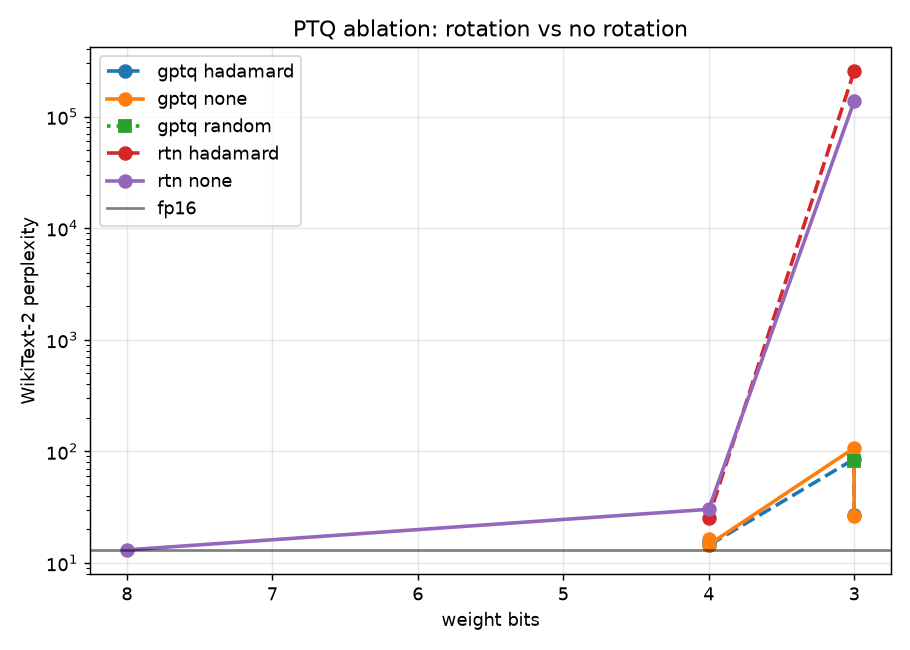
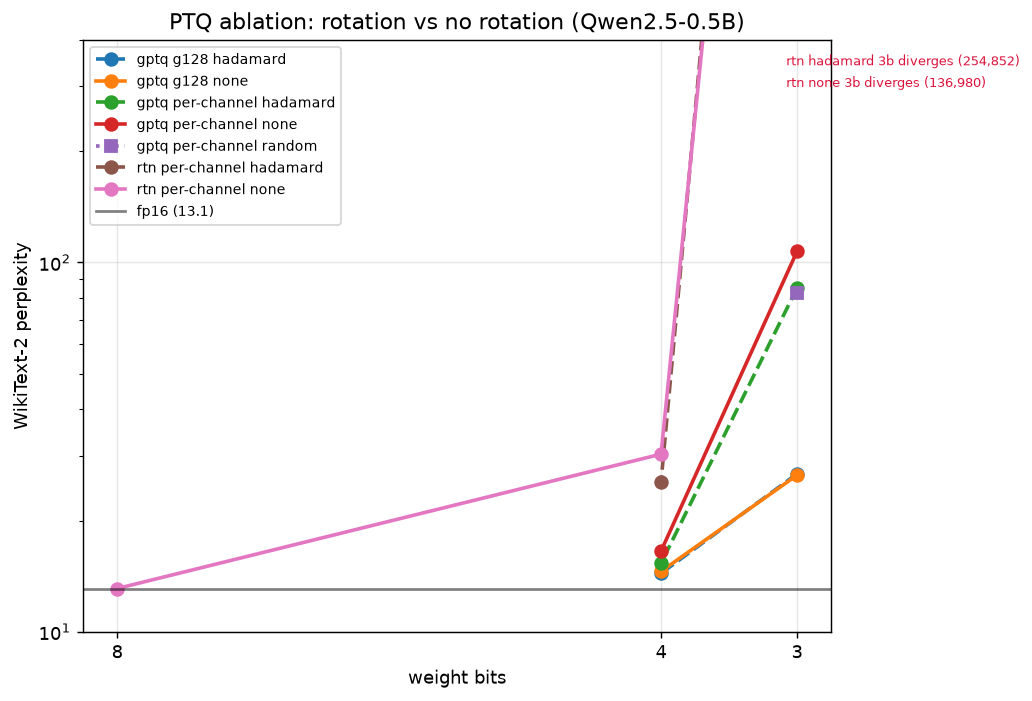
Write up ablation results against real numbers; neutral framing
- README: full 15-config result table + analysis against real RTX 3090 numbers,
  rewritten 'why rotation works' section, standalone-project framing
- plot.py: separate per-channel vs group-128 series, clip diverging RTN-3,
  show off-scale points as annotations
- benchmark.py: neutral module docstring

Claude-Session: https://claude.ai/code/session_01DmFUfMGC2NZD2MHQHobYfJ

diff --git a/scripts/plot.py b/scripts/plot.py
@@ -17,10 +17,12 @@ def main():
     for r in rows:
         if r["method"] == "fp16":
             continue
-        key = f"{r['method']} {r['rotation']}"
+        gs = r.get("groupsize", -1)
+        gtag = "per-channel" if gs in (-1, 0) else f"g{gs}"
+        key = f"{r['method']} {gtag} {r['rotation']}"
         series.setdefault(key, []).append((r["bits"], r["ppl"]))
 
-    plt.figure(figsize=(7, 5))
+    plt.figure(figsize=(8, 5.5))
     for key, pts in sorted(series.items()):
         pts.sort()
         xs, ys = zip(*pts)
@@ -28,18 +30,31 @@ def main():
         plt.plot(xs, ys, style, label=key, linewidth=2, markersize=7)
 
     if fp16:
-        plt.axhline(fp16, color="k", linestyle="-", alpha=0.5, label="fp16")
+        plt.axhline(fp16, color="k", linestyle="-", alpha=0.5, label=f"fp16 ({fp16:.1f})")
+
+    # RTN 3-bit diverges to ~1e5+; clip the view to the region of interest and
+    # flag the off-scale points instead of letting them flatten everything.
+    ymax = 400
+    offscale = [(key, b, p) for key, pts in series.items()
+                for b, p in pts if p > ymax]
+    for i, (key, b, p) in enumerate(sorted(offscale)):
+        plt.annotate(f"{key.replace(' per-channel', '')} {b}b diverges ({p:,.0f})",
+                     xy=(b, ymax), xytext=(-6, -14 - 12 * i),
+                     textcoords="offset points", ha="left",
+                     fontsize=7, color="crimson")
+    plt.ylim(10, ymax)
 
     plt.xlabel("weight bits")
     plt.ylabel("WikiText-2 perplexity")
     plt.yscale("log")
     plt.gca().invert_xaxis()
-    plt.legend()
-    plt.title("PTQ ablation: rotation vs no rotation")
+    plt.gca().set_xticks([8, 4, 3])
+    plt.legend(fontsize=8)
+    plt.title("PTQ ablation: rotation vs no rotation (Qwen2.5-0.5B)")
     plt.grid(alpha=0.3)
     plt.tight_layout()
     out = RESULTS / "ablation.png"
-    plt.savefig(out, dpi=130)
+    plt.savefig(out, dpi=130, bbox_inches="tight")
     print(f"wrote {out}")
 
 

diff --git a/ptq/benchmark.py b/ptq/benchmark.py
@@ -1,9 +1,9 @@
-"""Memory + throughput, framed the way ElastixAI frames it: bytes moved per token.
+"""Memory + throughput: bytes moved per token.
 
 Note: this repo does fake quantization, so runtime memory here reflects fp16
-tensors. The `theoretical_bytes_per_token` number is what matters for the writeup
-- it's the weight bytes that must be streamed from HBM per forward pass, which is
-the actual bottleneck for memory-bound decode.
+tensors. The theoretical weight-bytes number is the one that matters - it's the
+weight bytes that must be streamed from HBM per forward pass, which is the actual
+bottleneck for memory-bound decode.
 """
 import time
 

diff --git a/README.md b/README.md
@@ -30,12 +30,12 @@ the effect. See "Extensions".
 ```bash
 python3 -m venv .venv && source .venv/bin/activate
 pip install -r requirements.txt
-export PYTORCH_ENABLE_MPS_FALLBACK=1   # MPS lacks a few linalg ops
+export PYTORCH_ENABLE_MPS_FALLBACK=1   # only needed on Apple MPS
 ```
 
 Default model is `Qwen/Qwen2.5-0.5B` - small enough to run the whole pipeline on
-an M2/8GB laptop in minutes. The GPTQ linear algebra runs on CPU in float64
-regardless of device.
+an M2/8GB laptop. The GPTQ linear algebra runs in float64: on CUDA it stays on
+the GPU, on MPS it falls back to CPU (MPS has no float64).
 
 ## Run
 
@@ -43,84 +43,124 @@ regardless of device.
 # one config
 python -m scripts.run_experiment --method fp16
 python -m scripts.run_experiment --method rtn  --bits 4
-python -m scripts.run_experiment --method gptq --bits 3 --rotation hadamard
+python -m scripts.run_experiment --method gptq --bits 3 --rotation hadamard --groupsize 128
 
 # the whole ablation grid -> results/*.json + a summary table
-python -m scripts.run_ablation
+python -m scripts.run_ablation --nsamples 128 --calib-seqlen 2048
+python -m scripts.plot                       # -> results/ablation.png
+
 # fast pass while iterating:
 python -m scripts.run_ablation --limit-windows 20 --nsamples 32
 ```
 
 Each run writes `results/<tag>.json`. `run_ablation.py` runs every config in a
-subprocess (so MPS memory is released) and prints:
+subprocess (so GPU/MPS memory is released between runs) and prints the summary
+table below. To run on a rented GPU, `scripts/runpod_setup.sh` does the whole
+thing on a fresh CUDA pod.
 
-```
-method  bits  rotation       ppl  compress
-------------------------------------------
-fp16      16       none    <fill>     1.00x
-rtn        4       none    <fill>     4.00x
-rtn        4   hadamard    <fill>     4.00x
-gptq       3       none    <fill>     5.33x
-gptq       3   hadamard    <fill>     5.33x
-...
-```
+## The result
 
-## The result (fill in after running)
+`Qwen/Qwen2.5-0.5B`, WikiText-2 perplexity (seqlen 2048, full test set), GPTQ
+calibrated on 128 sequences x 2048 tokens, symmetric weights, run on an RTX 3090.
 
-_Ablation table / plot here. The row that matters: **GPTQ 3-bit, no rotation**
-vs **GPTQ 3-bit + Hadamard** - the rotation should recover most of the gap back
-to fp16, while at 4-bit the effect is smaller because the grid is already fine
-enough to tolerate the outliers._
+| method | bits | grouping | rotation | WikiText-2 ppl | vs fp16 |
+|---|---|---|---|---:|---:|
+| fp16   | 16 | -           | -        | **13.07** | - |
+| RTN    | 8  | per-channel | none     | 13.09     | +0.02 |
+| RTN    | 4  | per-channel | none     | 30.26     | +17.19 |
+| RTN    | 4  | per-channel | hadamard | 25.50     | +12.43 |
+| RTN    | 3  | per-channel | none     | 136,980   | diverges |
+| RTN    | 3  | per-channel | hadamard | 254,852   | diverges |
+| GPTQ   | 4  | per-channel | none     | 16.54     | +3.47 |
+| GPTQ   | 4  | per-channel | hadamard | 15.33     | +2.26 |
+| GPTQ   | 3  | per-channel | none     | 107.09    | +94.02 |
+| GPTQ   | 3  | per-channel | random   | 82.61     | +69.54 |
+| GPTQ   | 3  | per-channel | hadamard | 85.27     | +72.20 |
+| GPTQ   | 4  | group-128   | none     | 14.57     | +1.50 |
+| GPTQ   | 4  | group-128   | hadamard | 14.40     | +1.33 |
+| GPTQ   | 3  | group-128   | none     | 26.55     | +13.48 |
+| GPTQ   | 3  | group-128   | hadamard | 26.76     | +13.69 |
 
-### Pipeline smoke check (Qwen2.5-0.5B, 3 eval windows, 16 calib samples - NOT final numbers)
+![ablation](results/ablation.png)
 
-| method | bits | WikiText-2 ppl |
-|---|---|---|
-| fp16 | 16 | 13.85 |
-| RTN | 8 | 13.87 |
-| RTN | 4 | 33.81 |
-| GPTQ | 4 | 18.63 |
+### Reading the table
 
-GPTQ already cuts the 4-bit gap by more than half with almost no calibration
-data. Run the full grid (`scripts/run_ablation.py`, 128 samples, full eval) for
-the real table.
+1. **The quantizer is correct.** RTN at 8 bits is within 0.02 ppl of fp16, so any
+   damage at 4/3 bits is quantization difficulty, not a bug.
 
-## Why rotation works (the interview answer)
+2. **GPTQ's error feedback is worth a lot.** At 4-bit per-channel it nearly
+   halves the gap to fp16 versus RTN (16.5 vs 30.3). This is the inverse-Hessian
+   update compensating each column's rounding error against the not-yet-quantized
+   columns.
 
-_3-4 paragraphs, written after seeing the numbers:_
+3. **Rotation helps in the coarse regime, and any orthogonal matrix will do.**
+   With a single per-channel scale per row, the Hadamard rotation improves every
+   setting it was tried in: RTN-4 30.3 -> 25.5 (-16%), GPTQ-4 16.5 -> 15.3
+   (closes ~35% of the residual gap), GPTQ-3 107 -> 85. A *random* orthogonal
+   matrix does the same (GPTQ-3: 82.6, statistically indistinguishable from the
+   Hadamard's 85.3) - consistent with the mechanism being "mix every channel into
+   every other," for which Hadamard is just the cheap `O(n log n)` structured
+   choice.
+
+4. **Rotation alone does not rescue 3-bit here, and that is the interesting
+   part.** GPTQ-3 + Hadamard is still 85 ppl against fp16's 13. Qwen2.5-0.5B has
+   hidden size 896 = 128 x 7, which is not a power of two, so `hadamard_matrix()`
+   falls back to `kron(H_128, I_7)` - it only mixes channels *within* each block
+   of 128 and leaves the 7 blocks unmixed. A model with a power-of-two hidden
+   dimension (Llama-3.2-1B, 2048) gets a full Hadamard; that is the natural next
+   data point.
+
+5. **Group scales and rotation solve overlapping problems.** Moving GPTQ to
+   group-128 scales takes 3-bit from unusable (107) to 26.5 and 4-bit to within
+   1.5 ppl of fp16. Once the scale is local to a 128-wide group, the group max
+   already tracks local outliers, and adding the (partial) rotation on top
+   changes nothing: 14.57 -> 14.40 at 4-bit, 26.55 -> 26.76 at 3-bit. On this
+   model, per-group quantization is the bigger lever; rotation is what you reach
+   for when you want to keep a *single* scale per channel (cheaper metadata,
+   simpler kernels) and still survive 4-bit.
+
+## Why rotation works
 
 1. **The outlier problem.** A handful of activation channels in a trained
-   transformer carry magnitudes 10-100x the rest. Quantization scale is set by
-   the max value in a row/group, so one outlier stretches the grid and every
-   ordinary value gets 1-2 effective bits.
+   transformer carry magnitudes 10-100x the rest. A quantization scale is set by
+   the largest value in its row/group, so one outlier stretches the grid and
+   every ordinary value collapses onto 1-2 effective levels.
 
 2. **What a rotation does.** An orthogonal `Q` mixes every channel into every
-   other. A concentrated spike becomes spread across all coordinates - by a
-   Johnson-Lindenstrauss / concentration argument the post-rotation values look
-   near-Gaussian with a much smaller max/RMS ratio. A Hadamard matrix is the
-   cheap structured choice: `O(n log n)`, entries `±1/√n`.
+   other. A concentrated spike becomes spread across all coordinates; by a
+   Johnson-Lindenstrauss / concentration argument the rotated vector looks
+   near-Gaussian with a much smaller max/RMS ratio, so a uniform grid fits it
+   well. A Hadamard matrix is the cheap structured choice: `O(n log n)`, entries
+   `+-1/sqrt(n)`. The ablation confirms a *random* orthogonal matrix works
+   equally well - the structure buys speed, not accuracy.
 
 3. **Why it's free at inference (computational invariance).** RMSNorm is
-   invariant to orthogonal rotation of its input (it only divides by the norm).
-   So if you rotate everything entering the residual stream by `Q` and everything
-   leaving it by `Qᵀ`, and fold the norm scales into the weights first, the
-   network computes the identical function - the rotation is a change of basis
-   absorbed entirely into the weight matrices offline.
+   invariant to an orthogonal rotation of its input (it only divides by the
+   norm). So if you rotate everything entering the residual stream by `Q` and
+   everything leaving it by `Q^T`, and fold the norm scales into the weights
+   first, the network computes the identical function - the rotation is a change
+   of basis absorbed entirely into the weight matrices offline. `apply_rotation`
+   verifies this: fp16 ppl moves by <0.01 through the extra matmuls.
 
-4. **Why this matters for memory-bound inference.** LLM decode is bandwidth-bound:
-   time per token ≈ (bytes of weights + KV cache) / HBM bandwidth. Going 16→4 bit
-   is a ~4x cut in bytes streamed per token. Rotation is what lets you take that
-   cut without the accuracy falling off a cliff.
+4. **Why this matters for memory-bound inference.** LLM decode is
+   bandwidth-bound: time per token is approximately (weight bytes + KV-cache
+   bytes) / HBM bandwidth. Going 16 -> 4 bit is a ~4x cut in bytes streamed per
+   token. Rotation is one of the tools that lets you take that cut while keeping
+   a single scale per channel and without accuracy falling off a cliff - most
+   effective, on the evidence here, when the hidden dimension admits a full
+   Hadamard.
 
 ## Extensions
 
-- KV-cache int8/int4 (the long-context bottleneck; gestures at TurboQuant)
-- R2/R3/R4 rotations for activation-quantization (W4A4)
-- packed int4 storage + a real fast kernel (Marlin) for a true tokens/s number
-- second data point on Llama-3.2-1B (hidden=2048, a clean power-of-two Hadamard)
+- Llama-3.2-1B (hidden 2048): a clean power-of-two Hadamard, to test whether full
+  channel mixing closes the 3-bit gap that the partial `kron(H_128, I_7)` cannot
+- KV-cache int8/int4 (the long-context bandwidth bottleneck)
+- R2/R3/R4 rotations for activation quantization (W4A4)
+- packed int4 storage + a real fast kernel (Marlin) for a measured tokens/s number
 
 ## References
 
-- Frantar et al., *GPTQ*, 2023
-- Ashkboos et al., *QuaRot*, 2024
-- Tseng et al., *QuIP#* / Chee et al., *QuIP*, 2023-24 (incoherence processing)
+- Frantar et al., *GPTQ: Accurate Post-Training Quantization for Generative
+  Pre-trained Transformers*, 2023
+- Ashkboos et al., *QuaRot: Outlier-Free 4-Bit Inference in Rotated LLMs*, 2024
+- Chee et al., *QuIP*, 2023; Tseng et al., *QuIP#*, 2024 (incoherence processing)
